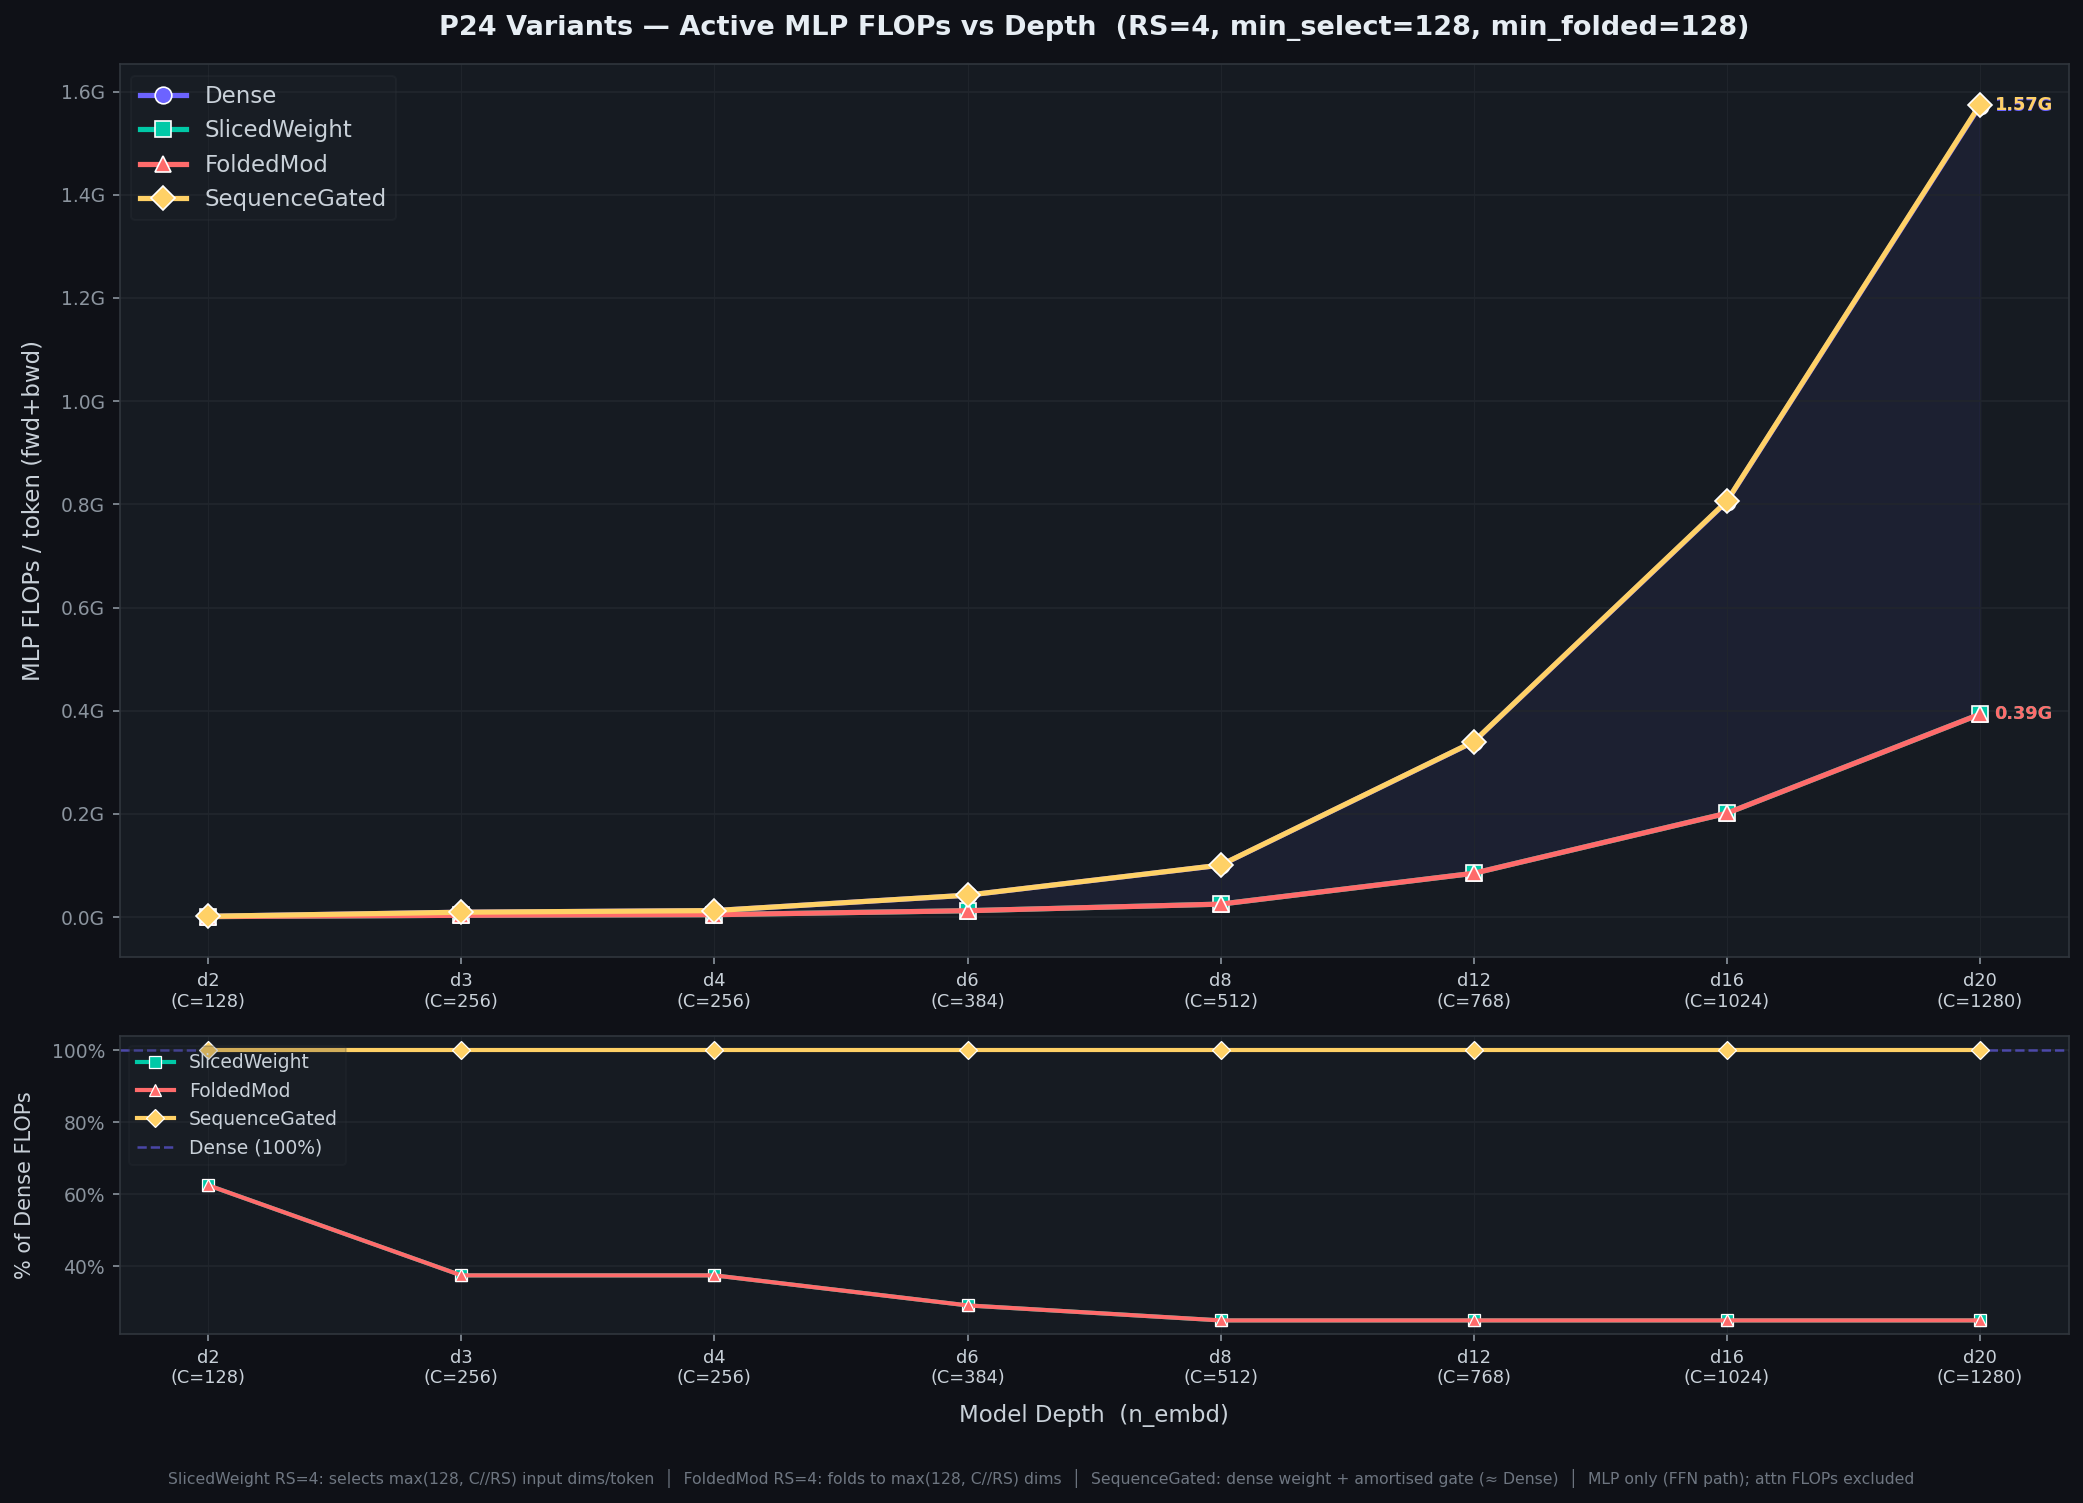
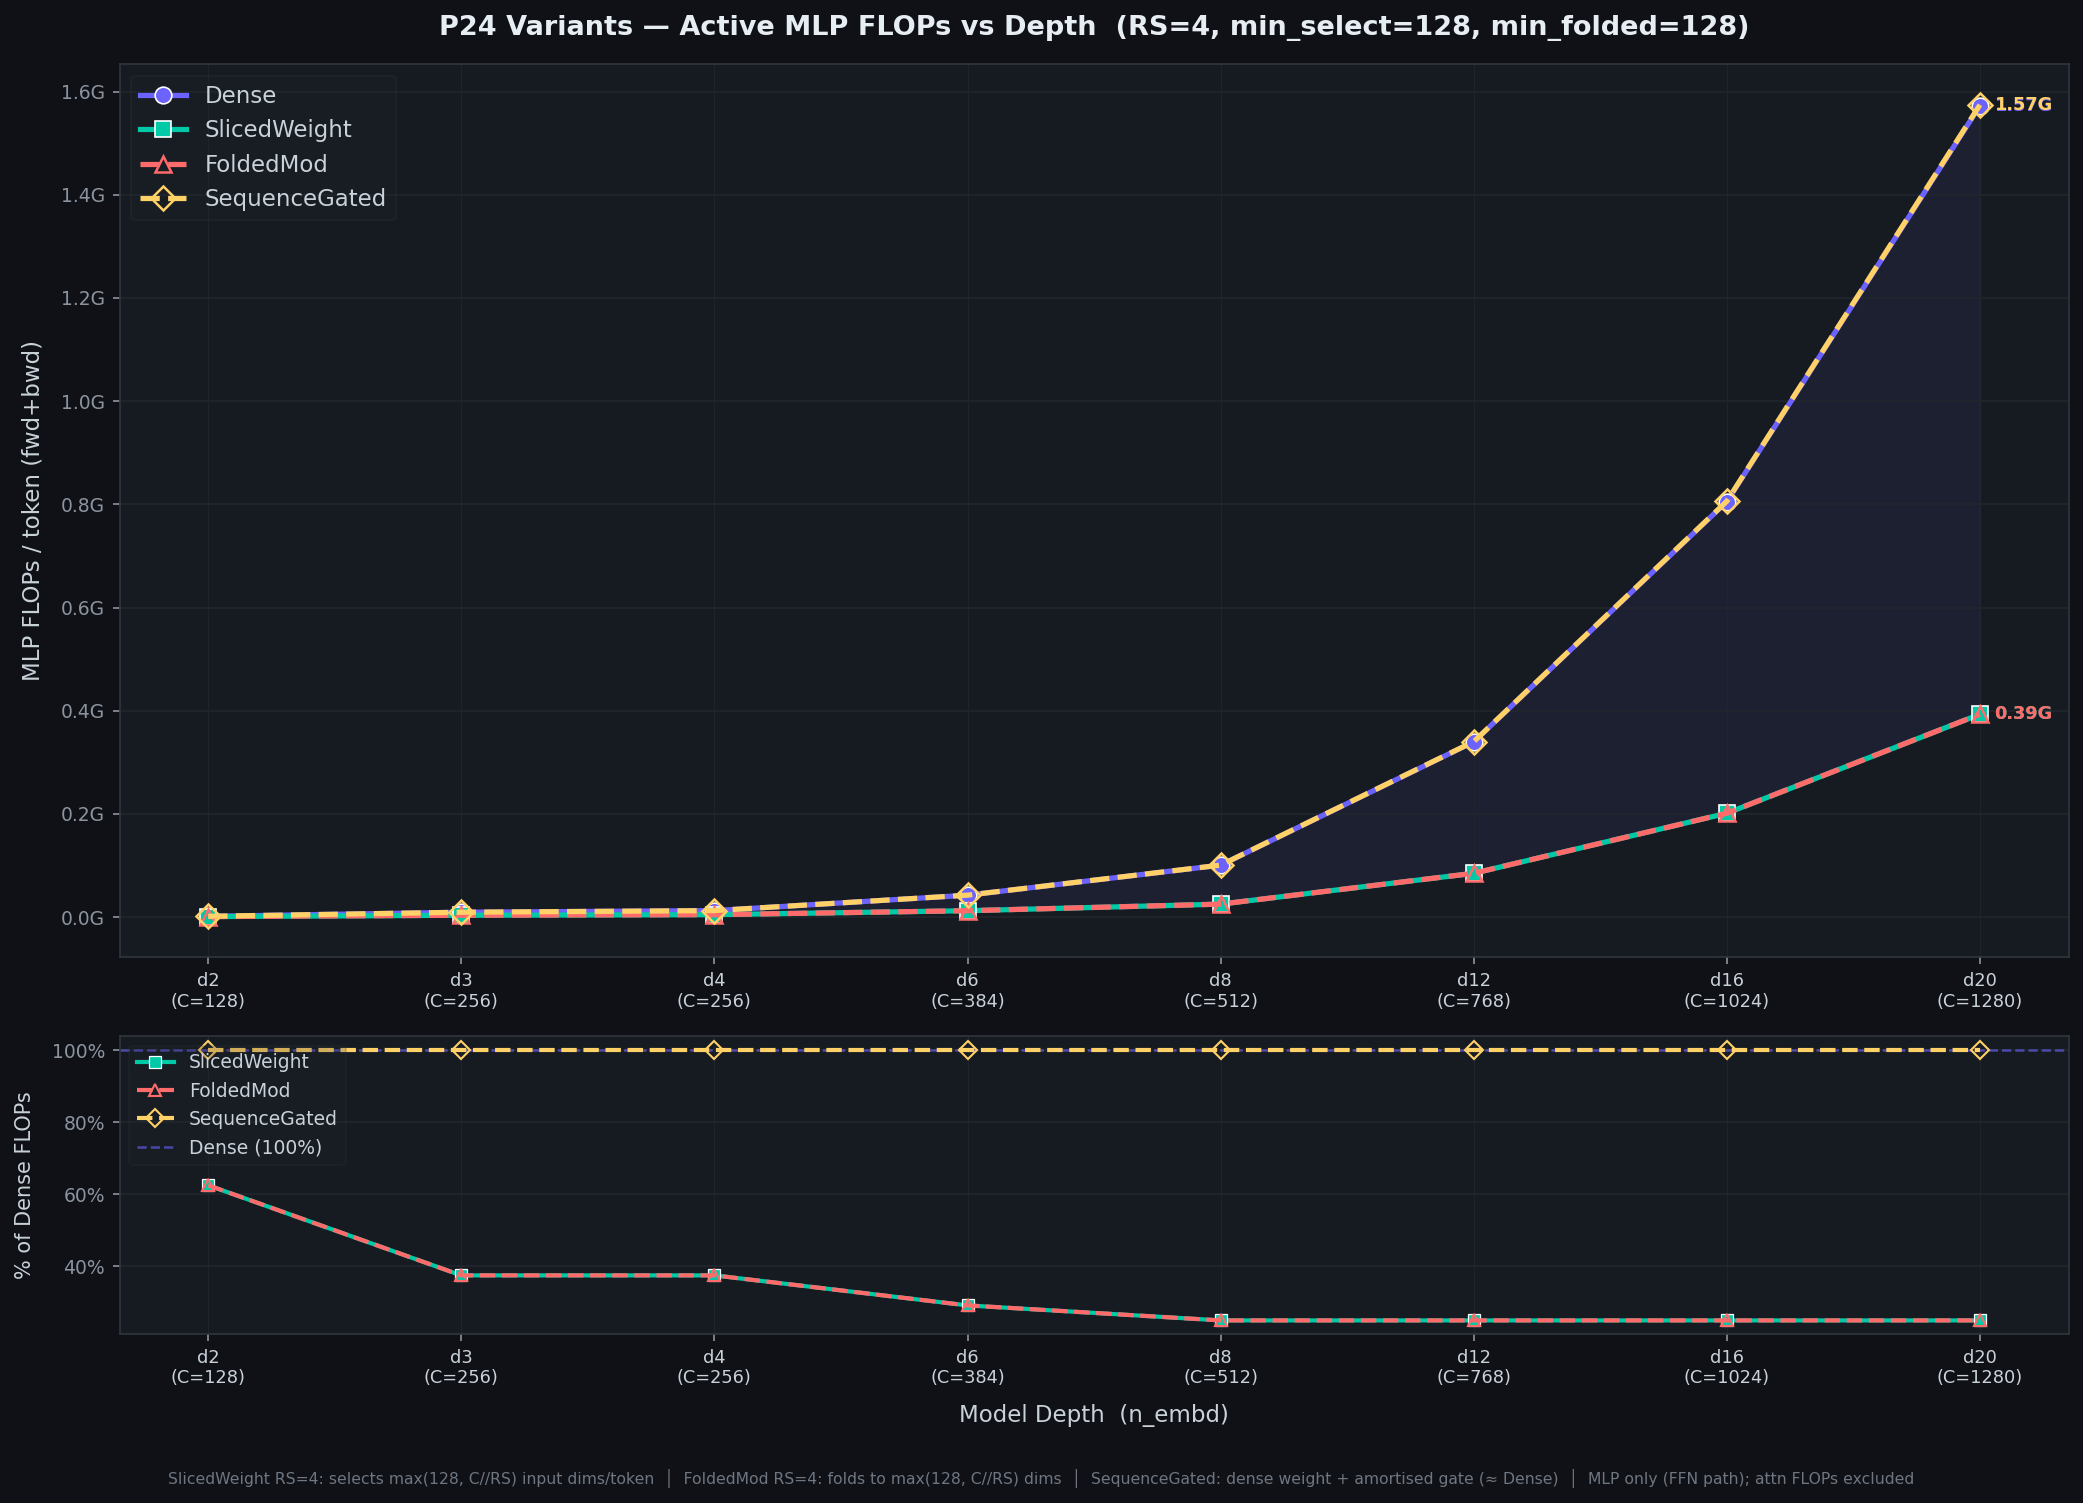
meh

diff --git a/scripts/p24_flops_plot.py b/scripts/p24_flops_plot.py
@@ -35,6 +35,12 @@ MARKERS = {
     "FoldedMod":     "^",
     "SequenceGated": "D",
 }
+LINESTYLES = {
+    "Dense":         "-",
+    "SlicedWeight":  "-",
+    "FoldedMod":     "--",
+    "SequenceGated": "--",
+}
 
 # ── FLOPs helpers ──────────────────────────────────────────────────────────────
 
@@ -151,14 +157,17 @@ def main():
     # — top panel: absolute FLOPs ———————————————————————————————————————————
     for variant, flops_list in data.items():
         fl = np.array(flops_list, dtype=float)
+        is_dashed = LINESTYLES[variant] == "--"
         ax_main.plot(
             x, fl,
             marker=MARKERS[variant],
+            linestyle=LINESTYLES[variant],
             color=PALETTE[variant],
             linewidth=2.5,
             markersize=8,
-            markeredgecolor="white",
-            markeredgewidth=0.8,
+            markerfacecolor="none" if is_dashed else PALETTE[variant],
+            markeredgecolor=PALETTE[variant] if is_dashed else "white",
+            markeredgewidth=1.2 if is_dashed else 0.8,
             label=variant,
             zorder=3,
         )
@@ -212,14 +221,17 @@ def main():
         if variant == "Dense":
             continue
         pct = 100 * np.array(flops_list) / dense_arr
+        is_dashed = LINESTYLES[variant] == "--"
         ax_pct.plot(
             x, pct,
             marker=MARKERS[variant],
+            linestyle=LINESTYLES[variant],
             color=PALETTE[variant],
             linewidth=2,
             markersize=6,
-            markeredgecolor="white",
-            markeredgewidth=0.6,
+            markerfacecolor="none" if is_dashed else PALETTE[variant],
+            markeredgecolor=PALETTE[variant] if is_dashed else "white",
+            markeredgewidth=1.0 if is_dashed else 0.6,
             label=variant,
             zorder=3,
         )
